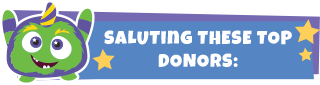
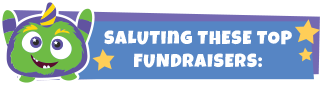
Add donors graphic

Changed region(s): [[0.4062, 0.6118, 0.8438, 0.8]]

diff --git a/src/jump-hoops/html/tpt/teamraiser-personal.html b/src/jump-hoops/html/tpt/teamraiser-personal.html
@@ -167,7 +167,7 @@
       </a>
     </div>
     <div class="ym-list" ng-class="personalDonors.donors.length < 1 ? 'hidden' : 'col-sm-6'">
-      <img class="img-responsive" src="../[[?xx::x[[S80:dev_branch]]x::::[[S80:dev_branch]]/]]aha-luminate/dist/jump-hoops/image/hj-fundraisers-graphic.png" alt="Saluting the following top fundraisers">
+      <img class="img-responsive" src="../[[?xx::x[[S80:dev_branch]]x::::[[S80:dev_branch]]/]]aha-luminate/dist/jump-hoops/image/hj-donors-graphic.png" alt="Saluting the following top fundraisers">
       <div class="ym-donor-list">
         <div class="ym-donor-list__row" ng-repeat="personalDonor in personalDonors.donors" ng-if="personalDonors.donors.length > 0" ng-cloak>
           <span class="ym-donor-list__row--name">{{personalDonor.name}}</span>
